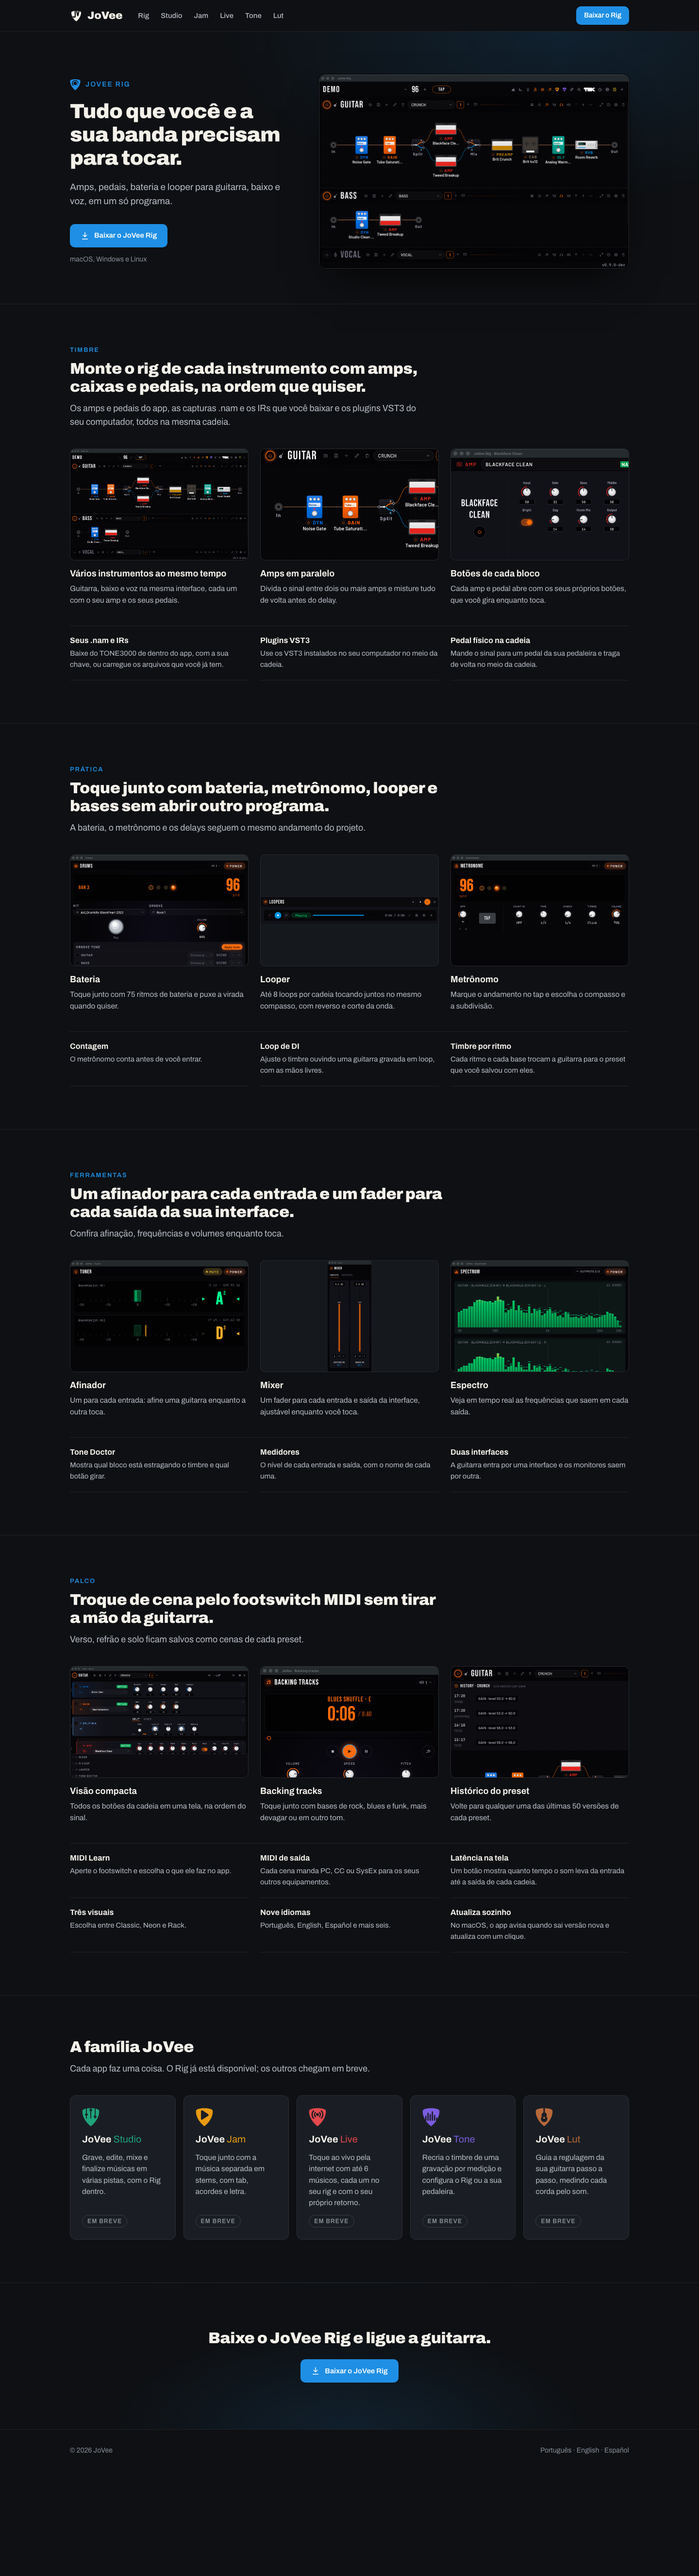
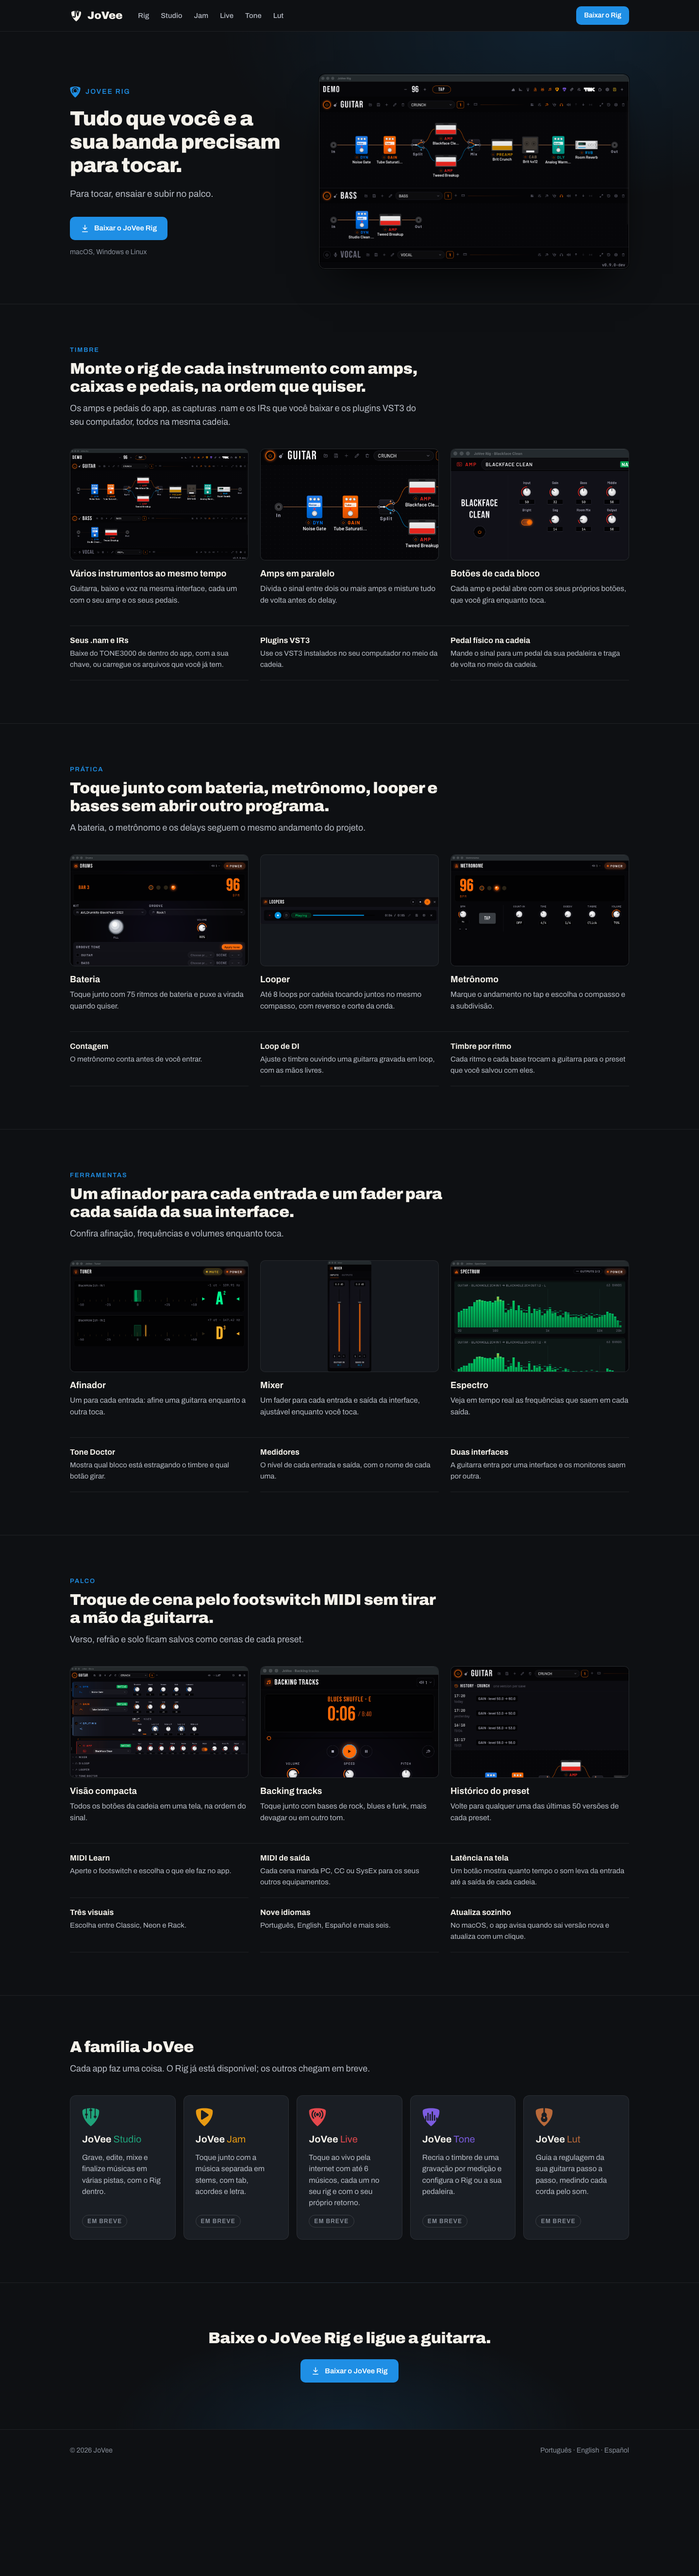
mockup: hero lede says what the player does, not what is inside

Changed region(s): [[0.0938, 0.0311, 0.4062, 0.1245]]

diff --git a/mockups/home.html b/mockups/home.html
@@ -86,7 +86,7 @@ h1{margin:20px 0 20px;font:800 42px/1.14 var(--f);letter-spacing:-.02em}
   <div>
     <div class="eyebrow"><img src="assets/jovee-rig-symbol.svg" alt="">JoVee Rig</div>
     <h1>Tudo que você e a sua banda precisam para tocar.</h1>
-    <p class="lede">Amps, pedais, bateria e looper para guitarra, baixo e voz, em um só programa.</p>
+    <p class="lede">Para tocar, ensaiar e subir no palco.</p>
     <a class="btn btn-rig" id="baixar" href="#"><svg viewBox="0 0 24 24" fill="none" stroke="currentColor" stroke-width="2" stroke-linecap="round" stroke-linejoin="round"><path d="M12 3v12M7 10l5 5 5-5M5 21h14"/></svg>Baixar o JoVee Rig</a>
     <div class="meta">macOS, Windows e Linux</div>
   </div>
